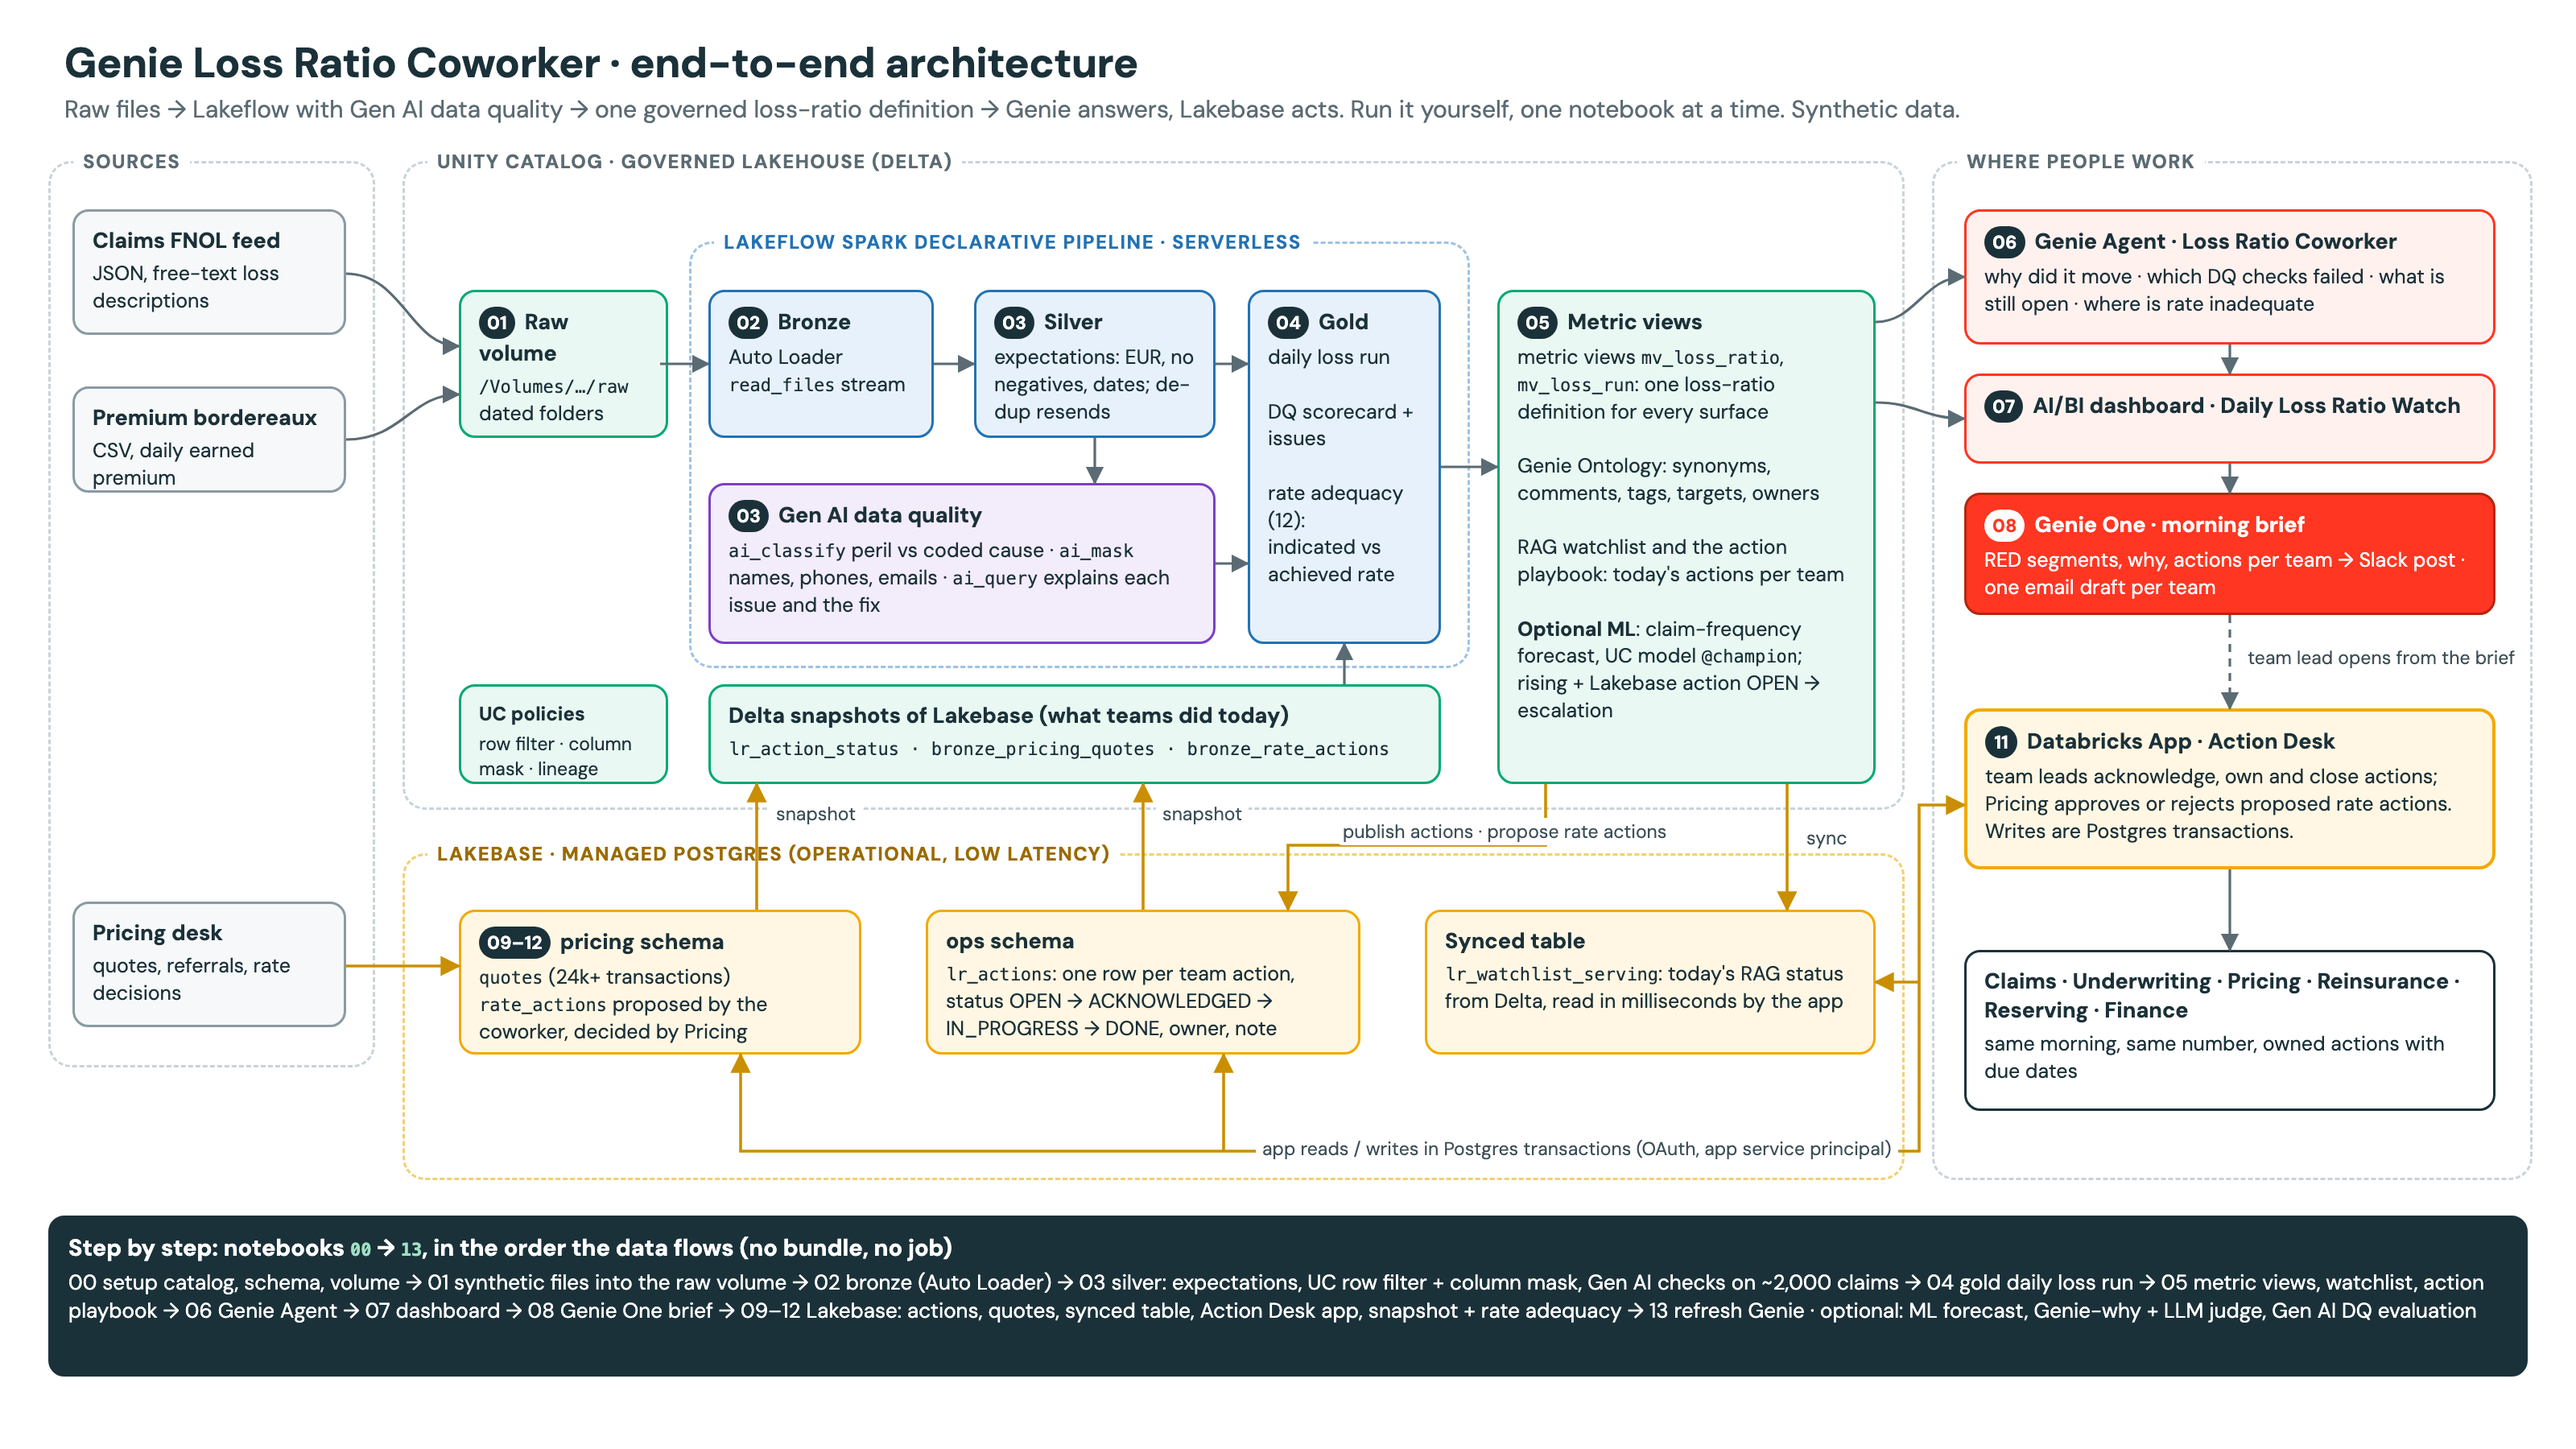
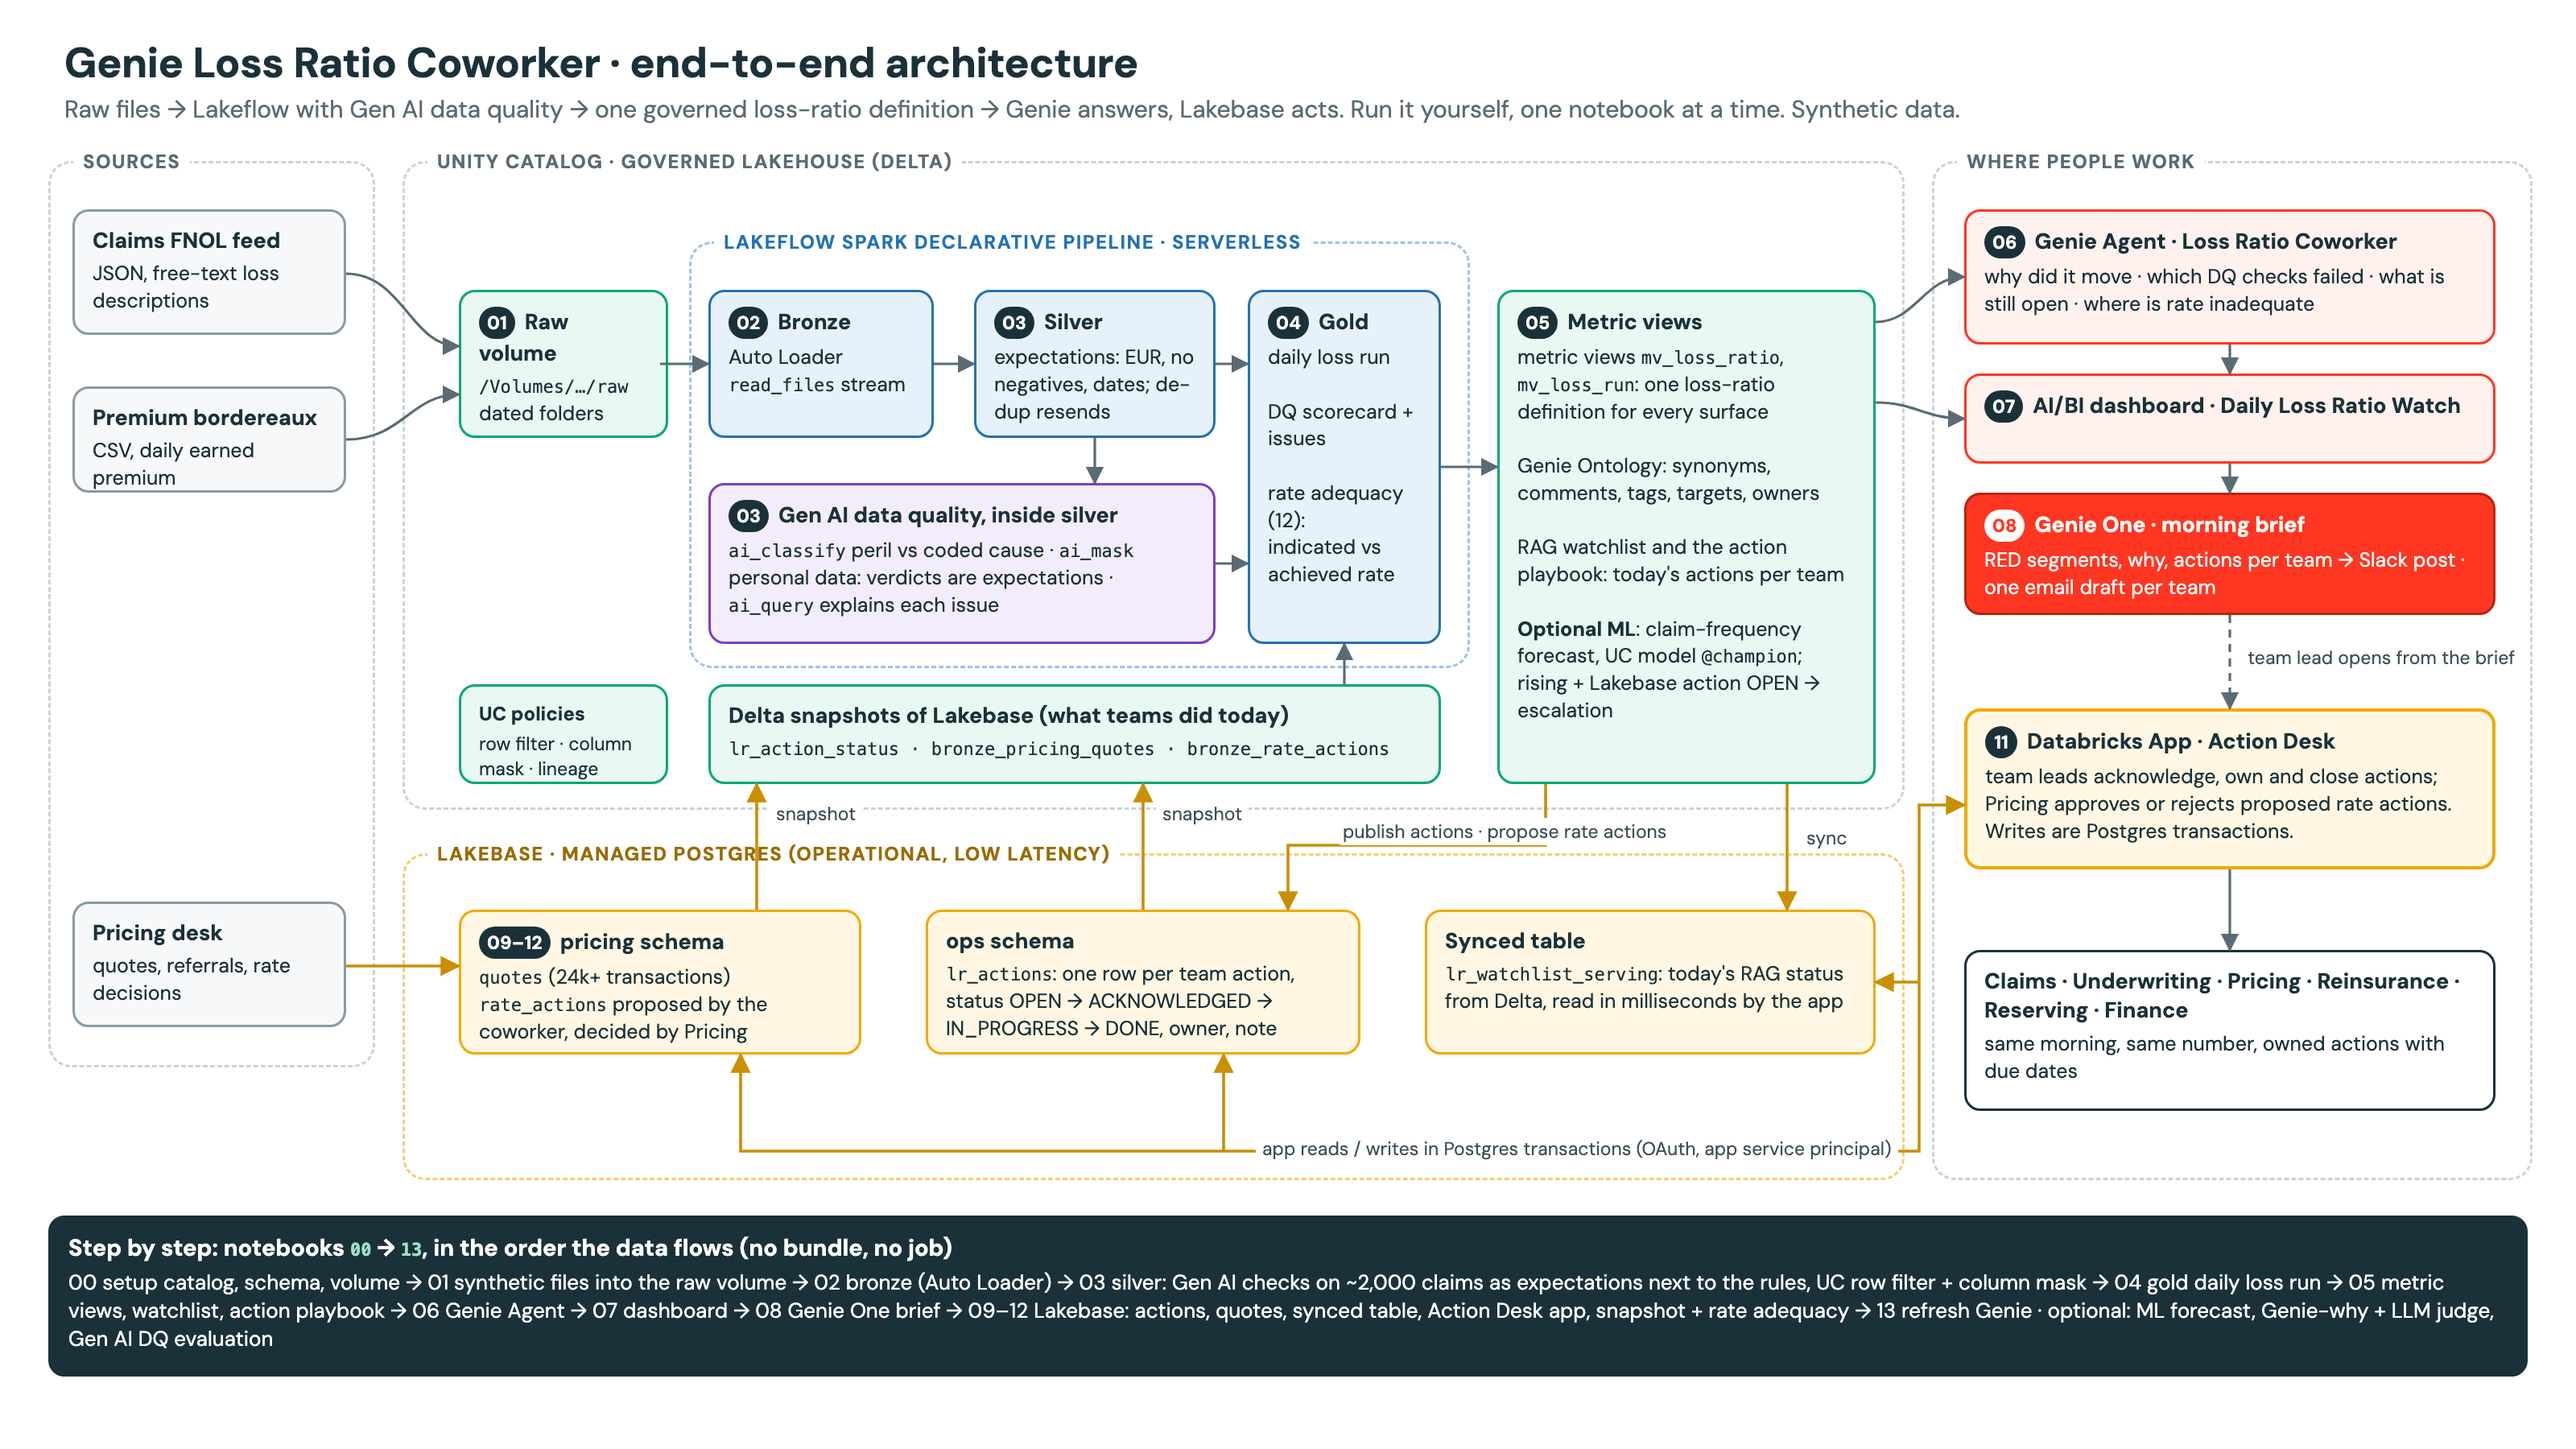
Silver layer: Gen AI data-quality checks as pipeline expectations

Changed region(s): [[0.0312, 0.8711, 0.9688, 0.9333], [0.2812, 0.3422, 0.4375, 0.4356]]

diff --git a/notebooks/03_silver_data_quality.py b/notebooks/03_silver_data_quality.py
@@ -1,15 +1,22 @@
 # Databricks notebook source
 # MAGIC %md
-# MAGIC # 03 · Pipeline, silver: data-quality rules, governance and Gen AI checks
+# MAGIC # 03 · Pipeline, silver: Gen AI data quality, rules and governance
 # MAGIC
-# MAGIC Adds `pipeline/02_silver.sql` to the pipeline and runs it. Before that, this notebook creates the Unity Catalog
-# MAGIC policy functions that the silver tables attach.
+# MAGIC Adds `pipeline/02_silver.sql` to the pipeline and runs it. In silver, **Gen AI is part of the data-quality gate**:
+# MAGIC it reads the free text that rules cannot, and its verdicts are pipeline **expectations** next to the rule-based ones.
 # MAGIC
-# MAGIC | What | How | Where you see it |
+# MAGIC | Check | Type | How |
 # MAGIC |---|---|---|
-# MAGIC | Rule-based data quality | **expectations**: claim id present, report date not in the future, loss before report, no negative amounts, EUR only; de-duplication of resent claims | pipeline graph (expectation pass rates), `silver_claims`, `silver_premium` |
-# MAGIC | Governance | **row filter** by region (`lrc_region_filter`), **column mask** on the free text (`lrc_mask_free_text`) | `silver_claims` |
-# MAGIC | Gen AI data quality | `ai_classify` peril vs coded cause, `ai_mask` personal data, `ai_query` explains each issue and the fix, on at most `MAX_AI_CLAIMS` recent claims | `silver_claims_ai_checked`, `dq_claims_issues`, `dq_daily_scorecard` |
+# MAGIC | `genai_peril_matches_text` | Gen AI | `ai_classify` infers the peril from the description; the coded cause of loss must agree |
+# MAGIC | `genai_no_personal_data` | Gen AI | `ai_mask` finds names, phone numbers and emails typed into the free text |
+# MAGIC | `has_claim_id`, `report_not_future` | rule, drops the row | claim id present, report date not in the future |
+# MAGIC | `loss_before_report`, `non_negative_amount`, `currency_is_eur` | rule, recorded | dates in order, no negative amounts, EUR only |
+# MAGIC | explanation per issue | Gen AI | `ai_query` writes a two-sentence explanation and fix for every issue in `dq_claims_issues` |
+# MAGIC
+# MAGIC The Gen AI checks run on the newest claims only (`MAX_AI_CLAIMS`, about 2,000, in `00_setup`), which keeps the step
+# MAGIC quick and the token cost bounded. Before the pipeline runs, this notebook creates the Unity Catalog row filter (each
+# MAGIC claims team sees only its own region) and column mask (raw free text only for `lrc_pii_readers`) that `silver_claims`
+# MAGIC attaches.
 
 # COMMAND ----------
 
@@ -82,21 +89,47 @@ run_pipeline(["bronze", "silver"])
 # COMMAND ----------
 
 # MAGIC %md
-# MAGIC ## 4 · What the data-quality checks found
+# MAGIC ## 4 · Gen AI and rule expectations, side by side
+# MAGIC The pipeline records every expectation in its event log. The Gen AI checks appear next to the rules, and you can
+# MAGIC see the same numbers on the pipeline's **Data quality** tab.
 
 # COMMAND ----------
 
 display(spark.sql(f"""
-  SELECT check_name, check_type, SUM(issues) AS claims_with_issue, ROUND(AVG(pass_rate), 4) AS avg_pass_rate
-  FROM {FQ}.dq_daily_scorecard GROUP BY ALL ORDER BY claims_with_issue DESC"""))
-display(spark.sql(f"""
-  SELECT check_name, claim_id, line_of_business, region, cause_of_loss, ai_peril, ai_explanation
-  FROM {FQ}.dq_claims_issues WHERE check_type = 'Gen AI' LIMIT 10"""))
+  SELECT e.dataset, e.name AS expectation,
+         IF(e.name LIKE 'genai_%', 'Gen AI', 'Rule') AS check_type,
+         SUM(e.passed_records) AS passed, SUM(e.failed_records) AS failed,
+         ROUND(SUM(e.passed_records) / NULLIF(SUM(e.passed_records) + SUM(e.failed_records), 0), 4) AS pass_rate
+  FROM (SELECT explode(from_json(details:flow_progress:data_quality:expectations,
+                       'ARRAY<STRUCT<name: STRING, dataset: STRING, passed_records: BIGINT, failed_records: BIGINT>>')) AS e
+        FROM event_log('{get_setting("pipeline_id")}')
+        WHERE event_type = 'flow_progress' AND origin.update_id = '{LAST_UPDATE_ID}'
+          AND details:flow_progress:data_quality:expectations IS NOT NULL)
+  GROUP BY ALL ORDER BY check_type, expectation"""))
 
 # COMMAND ----------
 
 # MAGIC %md
-# MAGIC ## 5 · What the policies do
+# MAGIC ## 5 · What Gen AI found in the free text
+
+# COMMAND ----------
+
+display(spark.sql(f"""
+  SELECT COUNT(*) AS claims_in_silver, COUNT_IF(genai_checked) AS checked_by_gen_ai,
+         COUNT_IF(NOT peril_consistent) AS cause_code_contradicts_text, COUNT_IF(pii_detected) AS personal_data_in_text
+  FROM {FQ}.silver_claims"""))
+display(spark.sql(f"""
+  SELECT check_name, claim_id, line_of_business, region, cause_of_loss AS coded_cause, ai_peril AS peril_in_text,
+         loss_description_masked, ai_explanation
+  FROM {FQ}.dq_claims_issues WHERE check_type = 'Gen AI' LIMIT 10"""))
+display(spark.sql(f"""
+  SELECT check_name, check_type, SUM(issues) AS claims_with_issue, ROUND(AVG(pass_rate), 4) AS avg_pass_rate
+  FROM {FQ}.dq_daily_scorecard GROUP BY ALL ORDER BY claims_with_issue DESC"""))
+
+# COMMAND ----------
+
+# MAGIC %md
+# MAGIC ## 6 · What the policies do
 # MAGIC Left: the raw text an authorised reader sees. Right: what any other analyst, Genie user or report sees.
 
 # COMMAND ----------
@@ -112,11 +145,11 @@ if spark.catalog.tableExists(f"{CATALOG}.{SCHEMA}.silver_claims"):
 
 # COMMAND ----------
 
-# MAGIC %md ## 6 · Policies attached in Unity Catalog
+# MAGIC %md ## 7 · Policies attached in Unity Catalog
 
 # COMMAND ----------
 
-for t in ["silver_claims", "silver_claims_ai_checked"]:
+for t in ["silver_claims"]:
     if spark.catalog.tableExists(f"{CATALOG}.{SCHEMA}.{t}"):
         rows = [r for r in spark.sql(f"DESCRIBE TABLE EXTENDED {FQ}.{t}").collect()
                 if any(k in (r[0] or "") for k in ("Row Filter", "Column Mask", "Masks", "Filter"))]

diff --git a/notebooks/optional/evaluate_genai_dq.py b/notebooks/optional/evaluate_genai_dq.py
@@ -34,14 +34,14 @@ SAMPLE = 40  # explanations graded by the LLM judge
 spark.sql(f"""
 CREATE OR REPLACE TEMP VIEW genai_scored AS
 SELECT a.claim_id, a.report_date, a.cause_of_loss AS coded_cause, c.cause_of_loss AS source_cause, a.ai_peril,
-       s.loss_description, a.loss_description_masked,
+       a.loss_description, a.loss_description_masked,
        a.cause_of_loss <> c.cause_of_loss                                   AS truth_peril_mismatch,
        NOT a.peril_consistent                                               AS flag_peril_mismatch,
-       s.loss_description RLIKE '@example\\\\.com|\\\\+44 7700'             AS truth_pii,
+       a.loss_description RLIKE '@example\\\\.com|\\\\+44 7700'             AS truth_pii,
        a.pii_detected                                                       AS flag_pii
-FROM {FQ}.silver_claims_ai_checked a
+FROM {FQ}.silver_claims a
 JOIN {FQ}.truth_claims c USING (claim_id)
-JOIN {FQ}.silver_claims s USING (claim_id)
+WHERE a.genai_checked
 """)
 display(spark.sql("SELECT * EXCEPT (loss_description) FROM genai_scored WHERE truth_peril_mismatch OR flag_peril_mismatch OR truth_pii OR flag_pii LIMIT 50"))
 

diff --git a/notebooks/_pipeline.py b/notebooks/_pipeline.py
@@ -40,6 +40,8 @@ def run_pipeline(layers):
         if state in ("COMPLETED", "FAILED", "CANCELED"):
             break
         time.sleep(15)
+    global LAST_UPDATE_ID
+    LAST_UPDATE_ID = update_id
     print(f"update {update_id}: {state}")
     assert state == "COMPLETED", "Open the pipeline link above to see which table failed"
     return pid

diff --git a/README.md b/README.md
@@ -13,9 +13,10 @@ pack three to six weeks after the claims arrived.
 
 The coworker checks the book every morning instead:
 
-1. **Trust the data.** Claim and premium files land in a raw volume. A Lakeflow pipeline checks them with rules
-   (dates, amounts, currency, duplicates) and with Gen AI: it flags claims whose cause-of-loss code contradicts the
-   description, and personal data typed into free text. Unity Catalog masks that text and limits each claims team to
+1. **Trust the data.** Claim and premium files land in a raw volume. In the silver layer of a Lakeflow pipeline,
+   Gen AI is part of the data-quality gate: it reads the free text that rules cannot, flags claims whose cause-of-loss
+   code contradicts the description and personal data typed into the text, and explains each issue. Its verdicts are
+   pipeline expectations next to the rule-based ones (dates, amounts, currency, duplicates). Unity Catalog masks that text and limits each claims team to
    its own region.
 2. **Detect.** One governed loss-ratio definition marks each segment (line of business × region) RED, AMBER or GREEN
    on its 7-day and 30-day loss ratio against target, and names the driver: frequency, severity, catastrophe or a
@@ -41,7 +42,7 @@ The synthetic book has three planted events for the coworker to find:
 |---|---|---|
 | Landing | Unity Catalog volume with JSON claim files and CSV premium bordereaux | 00, 01 |
 | Bronze | Lakeflow Spark Declarative Pipeline, streaming tables with Auto Loader | 02, `pipeline/01_bronze.sql` |
-| Silver and data quality | expectations, Unity Catalog row filter and column mask, `ai_classify`, `ai_mask`, `ai_query` | 03, `pipeline/02_silver.sql` |
+| Silver with Gen AI data quality | `ai_classify` and `ai_mask` as pipeline expectations next to the rules, `ai_query` explanations, Unity Catalog row filter and column mask | 03, `pipeline/02_silver.sql` |
 | Gold | materialized view `gold_daily_loss_run` | 04, `pipeline/03_gold.sql` |
 | One loss-ratio definition | metric views `mv_loss_ratio` and `mv_loss_run`, the watchlist view and the action playbook | 05 |
 | Explain and report | Genie Agent, AI/BI dashboard, Genie One skill with Slack and email connectors | 06, 07, 08 |
@@ -72,7 +73,7 @@ The synthetic book has three planted events for the coworker to find:
 | 0 | `00_setup` | Creates the catalog (if missing and allowed), the schema and the `raw` volume | It prints the target catalog, schema and volume |
 | 1 | `01_generate_synthetic_data` | Generates the synthetic book and lands it as files: monthly files for the history, daily drops for the last 30 days, with the three planted events and planted data-quality defects | It prints the records and files landed, the events and the defects |
 | 2 | `02_bronze` | Creates the Lakeflow pipeline with `pipeline/01_bronze.sql` and runs it: Auto Loader reads every file into `bronze_fnol` and `bronze_premium` | Records per table; open the pipeline graph from the printed link |
-| 3 | `03_silver_data_quality` | Creates the row filter and column mask, adds `pipeline/02_silver.sql` and runs it: expectations, de-duplication, then Gen AI checks on the ~2,000 most recent claims | The data-quality scorecard, a few issues with their `ai_explanation`, the masked text |
+| 3 | `03_silver_data_quality` | Creates the row filter and column mask, adds `pipeline/02_silver.sql` and runs it: Gen AI checks (`ai_classify`, `ai_mask`) on the ~2,000 newest claims become expectations next to the rules, and `ai_query` explains every issue | The Gen AI and rule expectations side by side, the claims Gen AI flagged with their explanation, the masked text |
 | 4 | `04_gold` | Adds `pipeline/03_gold.sql` and runs it: `gold_daily_loss_run`, one row per day, line of business and region | 7-day loss ratio by segment: Property DACH, Motor UK & Ireland and Liability Southern Europe at the top |
 | 5 | `05_metric_views` | Targets, public benchmarks, the metric views, the RED/AMBER/GREEN watchlist, the action playbook and `v_todays_actions`, tags | The watchlist includes the three planted segments as RED (another can breach by chance) |
 | 6 | `06_genie_agent` | Creates the **Loss Ratio Coworker** Genie Agent on the metric views, watchlist, actions and data-quality tables | Open the link and ask *"Why did DACH Property loss ratio jump this week?"* |
